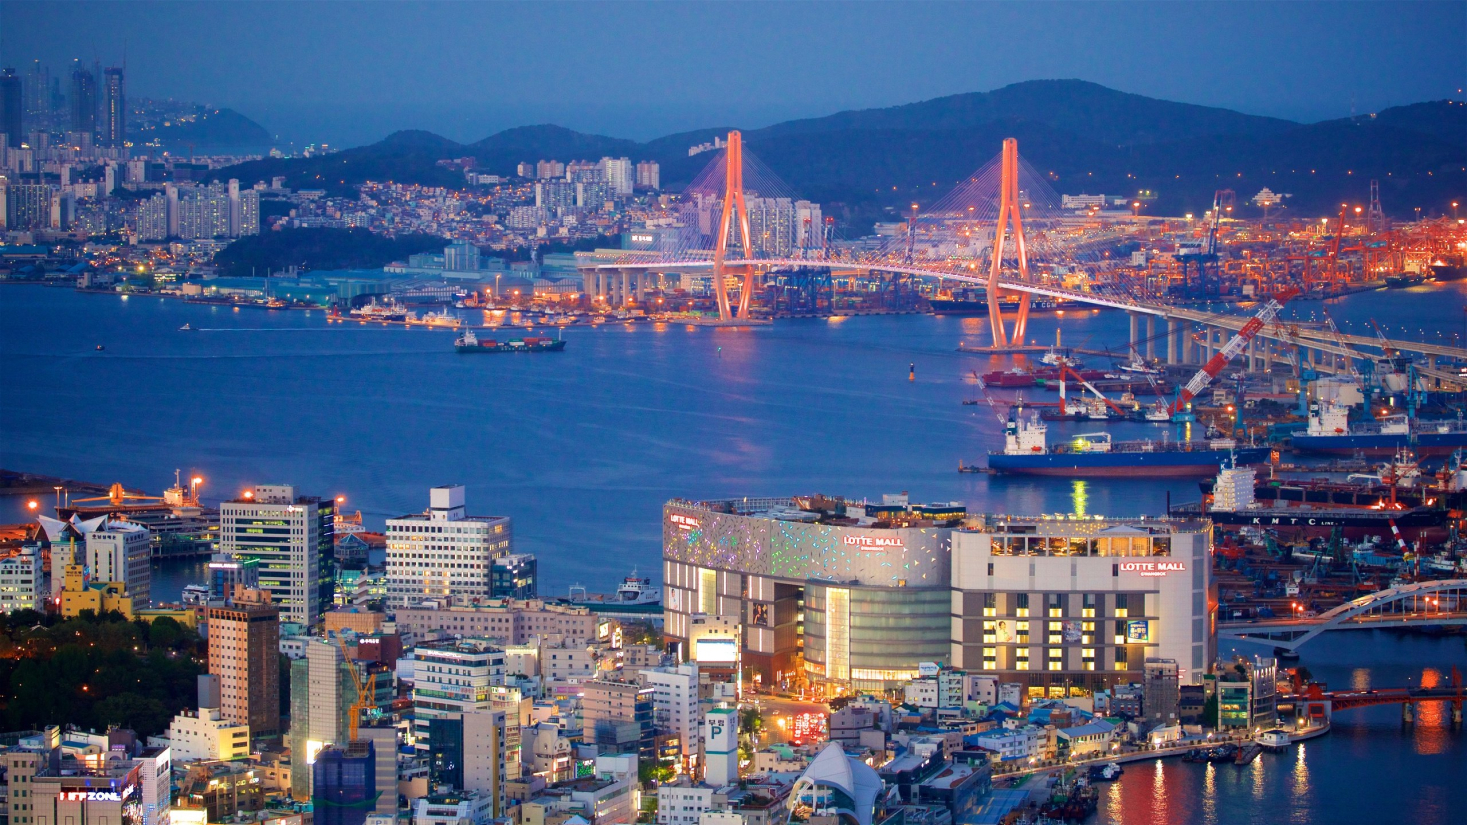
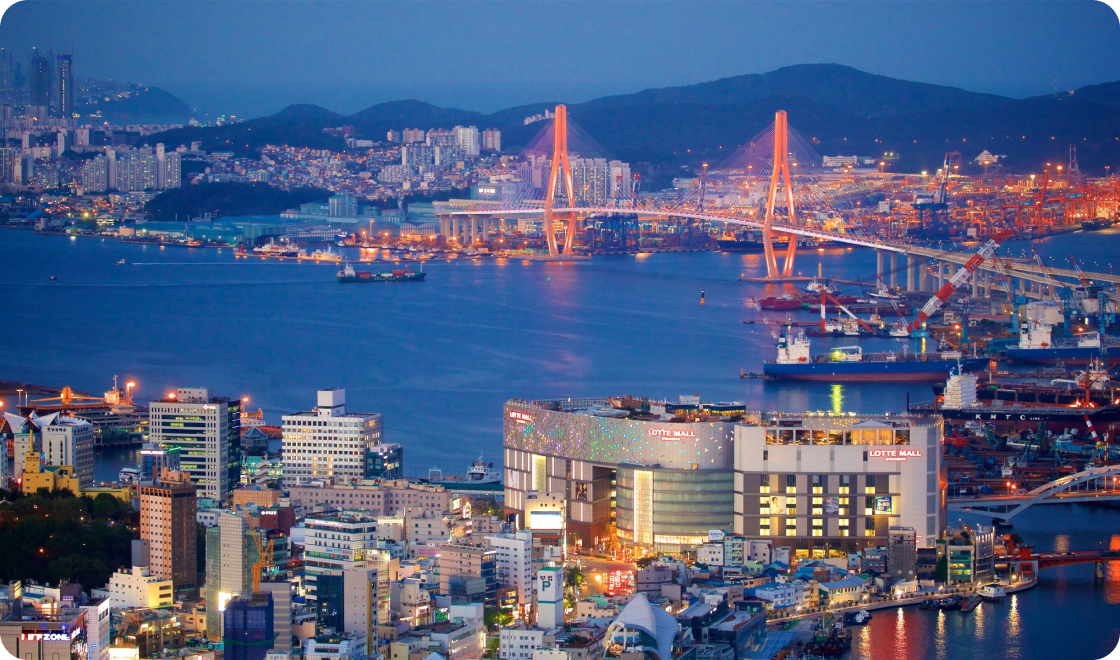
feature: style the page

diff --git a/Full-Stack Course/1. HTML & CSS/1. Tourist Site/index.html b/Full-Stack Course/1. HTML & CSS/1. Tourist Site/index.html
@@ -20,101 +20,119 @@
 </head>
 
 <body>
-    <header class="hero">
-        <section class="hero__title">
-            <p class="subtitle">Sua próxima viagem:</p>
-            <h1 class="title">Conheça Busan</h1>
-        </section>
+    <div class="wrapper">
+        <header class="hero">
+            <section class="hero__title">
+                <p class="headline">Sua próxima viagem:</p>
+                <h1 class="title">Conheça Busan</h1>
+            </section>
 
-        <span class="spacer"></span>
+            <span class="spacer"></span>
 
-        <section class="hero__content">
-            <img src="" alt="">
-            <p>Busan, a estrela em ascensão da Coreia do Sul, oferece de tudo, desde churrascarias de primeira linha até
-                tradicionais barracas de comida de rua. Aqui, exploramos a segunda cidade da Coreia do Sul e descobrimos
-                as suas ofertas culinárias.</p>
-        </section>
-    </header>
-
-    <span class="spacer breaker"></span>
-
-    <main class="container">
-        <header class="container__hero">
-            <p class="subtitle">Para os amantes de história</p>
-            <h2 class="title">Descubra 3 destinos imperdíveis em Busan</h2>
-            <p class="description">As atrações de Busan vão desde templos budistas centenários que pontilham as
-                montanhas e o litoral da cidade até praias imaculadas com águas cristalinas. Esta cidade litorânea tem
-                muitas coisas para fazer o ano todo - as famílias podem passar o tempo em um aquário à beira-mar, os
-                compradores podem explorar bairros vibrantes e os amantes da natureza podem desfrutar de longas
-                caminhadas até mirantes panorâmicos.
-                Os santuários budistas que pontilham a costa e as montanhas de Busan têm uma arquitetura impressionante
-                que irá encantar os fotógrafos.</p>
+            <section class="hero__content">
+                <img class="image" src="./images/01.jpg" alt="City picture">
+                <p class="article-text">Busan, a estrela em ascensão da Coreia do Sul, oferece de tudo, desde
+                    churrascarias de
+                    primeira linha
+                    até
+                    tradicionais barracas de comida de rua. Aqui, exploramos a segunda cidade da Coreia do Sul e
+                    descobrimos
+                    as suas ofertas culinárias.</p>
+            </section>
         </header>
 
-        <section class="container__articles">
-            <article>
-                <img src="" alt="">
-                <h3>1. Templo Haedong Yonggungsa</h3>
-                <p>O Templo Haedong Yonggungsa é um templo budista localizado no extremo nordeste de Busan. Construído
-                    em 1376, é um dos poucos templos na Coreia construídos à beira-mar – você pode desfrutar de vistas
-                    do Mar do Leste de um lado e de belas montanhas do outro.
-                    <br><br>
-                    <b>Bom para:</b>
-                </p>
-                <ul>
-                    <li class="blue">História</li>
-                </ul>
-            </article>
-
-            <article>
-                <img src="" alt="">
-                <h3>2. Templo Beomeo-sa</h3>
-                <p>O Templo Beomeo-sa é um dos maiores santuários da Coreia do Sul. Ele está localizado no alto da borda
-                    leste da montanha Geumjeongsa e fica distante da agitação da cidade. O Daeungjeon Hall do templo é
-                    um exemplo bem preservado da arquitetura da Dinastia Joseon.
-                    <br><br>
-                    <b>Bom para:</b>
-                </p>
-                <ul>
-                    <li class="blue">História</li>
-                </ul>
-            </article>
-
-            <article>
-                <img src="" alt="">
-                <h3>3. Parque Yongdusan</h3>
-                <p>O Parque Yongdusan, localizado no centro de Busan, abriga alguns dos monumentos mais importantes da
-                    cidade. Você pode ver vistas espetaculares do topo da Torre Busan, de 120 metros de altura. O parque
-                    tem 2 museus – confira os instrumentos musicais tradicionais no Museum of World Folk Instruments e
-                    mais de 80 veleiros coreanos no Exhibition Hall of World Model Boats.
-                    <br><br>
-                    <b>Bom para:</b>
-                </p>
-                <ul>
-                    <li class="purple">Casais</li>
-                    <li class="pink">Famílias</li>
-                    <li class="orange">Orçamento</li>
-                </ul>
-            </article>
-        </section>
-
         <span class="spacer breaker"></span>
-        <span class="spacer"></span>
 
-        <footer class="container__footer">
-            <p>As melhores coisas para fazer em Busan mostram a reputação da cidade como um importante porto marítimo na
-                Ásia. Frequentemente vista como a essência da Coreia do Sul, você experimentará uma atmosfera única em
-                termos de diversidade étnica e cultural, já que a cidade recebe um público cosmopolita o ano todo. </p>
+        <main class="container">
+            <header class="container__hero">
+                <p class="headline">Para os amantes de história</p>
+                <h2 class="title">Descubra 3 destinos imperdíveis em Busan</h2>
+                <p class="paragraph">As atrações de Busan vão desde templos budistas centenários que pontilham as
+                    montanhas e o litoral da cidade até praias imaculadas com águas cristalinas. Esta cidade litorânea
+                    tem
+                    muitas coisas para fazer o ano todo - as famílias podem passar o tempo em um aquário à beira-mar, os
+                    compradores podem explorar bairros vibrantes e os amantes da natureza podem desfrutar de longas
+                    caminhadas até mirantes panorâmicos.
+                    Os santuários budistas que pontilham a costa e as montanhas de Busan têm uma arquitetura
+                    impressionante
+                    que irá encantar os fotógrafos.</p>
+            </header>
+
+            <section class="container__articles">
+                <article class="article">
+                    <img class="image" src="./images/02.jpg" alt="Busan picture">
+                    <h3 class="article__heading">1. Templo Haedong Yonggungsa</h3>
+                    <p class="article_paragraph">O Templo Haedong Yonggungsa é um templo budista localizado no extremo nordeste de Busan.
+                        Construído
+                        em 1376, é um dos poucos templos na Coreia construídos à beira-mar – você pode desfrutar de
+                        vistas
+                        do Mar do Leste de um lado e de belas montanhas do outro.
+                        <br><br>
+                        <b>Bom para:</b>
+                    </p>
+                    <ul>
+                        <li class="list__item blue"><span>História</span></li>
+                    </ul>
+                </article>
+
+                <article class="article">
+                    <img class="image" src="./images/03.jpg" alt="Busan picture">
+                    <h3 class="article__heading">2. Templo Beomeo-sa</h3>
+                    <p class="article_paragraph">O Templo Beomeo-sa é um dos maiores santuários da Coreia do Sul. Ele está localizado no alto da
+                        borda
+                        leste da montanha Geumjeongsa e fica distante da agitação da cidade. O Daeungjeon Hall do templo
+                        é
+                        um exemplo bem preservado da arquitetura da Dinastia Joseon.
+                        <br><br>
+                        <b>Bom para:</b>
+                    </p>
+                    <ul>
+                        <li class="list__item blue"><span>História</span></li>
+                    </ul>
+                </article>
+
+                <article class="article">
+                    <img class="image" src="./images/04.jpg" alt="Busan picture">
+                    <h3 class="article__heading">3. Parque Yongdusan</h3>
+                    <p class="article_paragraph">O Parque Yongdusan, localizado no centro de Busan, abriga alguns dos monumentos mais importantes
+                        da
+                        cidade. Você pode ver vistas espetaculares do topo da Torre Busan, de 120 metros de altura. O
+                        parque
+                        tem 2 museus – confira os instrumentos musicais tradicionais no Museum of World Folk Instruments
+                        e
+                        mais de 80 veleiros coreanos no Exhibition Hall of World Model Boats.
+                        <br><br>
+                        <b>Bom para:</b>
+                    </p>
+                    <ul>
+                        <li class="list__item purple"><span>Casais</span></li>
+                        <li class="list__item pink"><span>Famílias</span></li>
+                        <li class="list__item orange"><span>Orçamento</span></li>
+                    </ul>
+                </article>
+            </section>
+
+            <span class="spacer breaker"></span>
+            <span class="spacer"></span>
+
+            <footer class="paragraph container__footer">
+                <p>As melhores coisas para fazer em Busan mostram a reputação da cidade como um importante porto
+                    marítimo na
+                    Ásia. Frequentemente vista como a essência da Coreia do Sul, você experimentará uma atmosfera única
+                    em
+                    termos de diversidade étnica e cultural, já que a cidade recebe um público cosmopolita o ano todo. 
+                </p>
+            </footer>
+        </main>
+
+        <footer class="wrapper__footer">
+            <p>
+                Feito com
+                <i class="fa-solid fa-heart"></i>
+                pela Rocketseat | João Rodrigues
+            </p>
         </footer>
-    </main>
-
-    <footer>
-        <p>
-            Feito com
-            <i class="fa-solid fa-heart"></i>
-            pela Rocketseat | João Rodrigues
-        </p>
-    </footer>
+    </div>
 </body>
 
 </html>

diff --git a/Full-Stack Course/1. HTML & CSS/1. Tourist Site/style.css b/Full-Stack Course/1. HTML & CSS/1. Tourist Site/style.css
@@ -20,3 +20,121 @@
     font-family: "Open Sans", sans-serif;
     font-optical-sizing: auto;
 }
+
+.wrapper {
+    max-width: 75rem;
+    margin-inline: auto;
+}
+
+@media screen and (max-width: 75rem) {
+    .wrapper {
+        margin-inline: 2rem;
+    }
+}
+
+.hero {
+    margin-top: 5.5rem;
+}
+
+.title {
+    font-size: 2.25rem;
+    font-weight: bold;
+    margin-top: .5rem;
+}
+
+.headline {
+    font-size: 1rem;
+    font-weight: bold;
+    text-transform: uppercase;
+    color: var(--accent-orange);
+}
+
+.spacer {
+    display: block;
+    height: 2.5rem;
+}
+
+.image {
+    width: 100%;
+    max-width: 100%;
+    border-radius: 1.75rem;
+}
+
+.hero__content img {
+    margin-bottom: 1.5rem;
+}
+
+.article-text {
+   font-size: 1rem;
+   font-weight: normal;
+   font-style: italic;
+   text-align: center;
+   color: var(--text-secondary);
+}
+
+.breaker {
+    border-bottom: 1px solid var(--border-primary);
+}
+
+.container__hero {
+    margin-block: 4rem;
+}
+
+.paragraph {
+    margin-top: .5rem;
+    font-size: 1rem;
+    font-weight: normal;
+    color: var(--text-secondary);
+}
+
+.article + .article {
+    margin-top: 3rem;
+}
+
+.article__heading {
+    font-size: 1.75rem;
+    font-weight: bold;
+    color: var(--text-primary);
+    margin-top: 1.25rem;
+}
+
+.article_paragraph {
+    margin-top: .25rem;
+    font-size: 1rem;
+    font-weight: normal;
+    color: var(--text-secondary);
+}
+
+.container__articles article ul {
+    padding-left: 1.25rem;
+}
+
+.list__item span {
+    font-weight: bold;
+}
+
+.blue span {
+    color: var(--accent-blue);
+}
+
+.purple span {
+    color: var(--accent-purple);
+}
+
+.pink span {
+    color: var(--accent-pink);
+}
+
+.orange span {
+    color: var(--accent-orange);
+}
+
+.container__footer p {
+    margin-top: 0;
+    text-align: center;
+}
+
+.wrapper__footer {
+    margin-block: 4rem;
+    text-align: center;
+}
